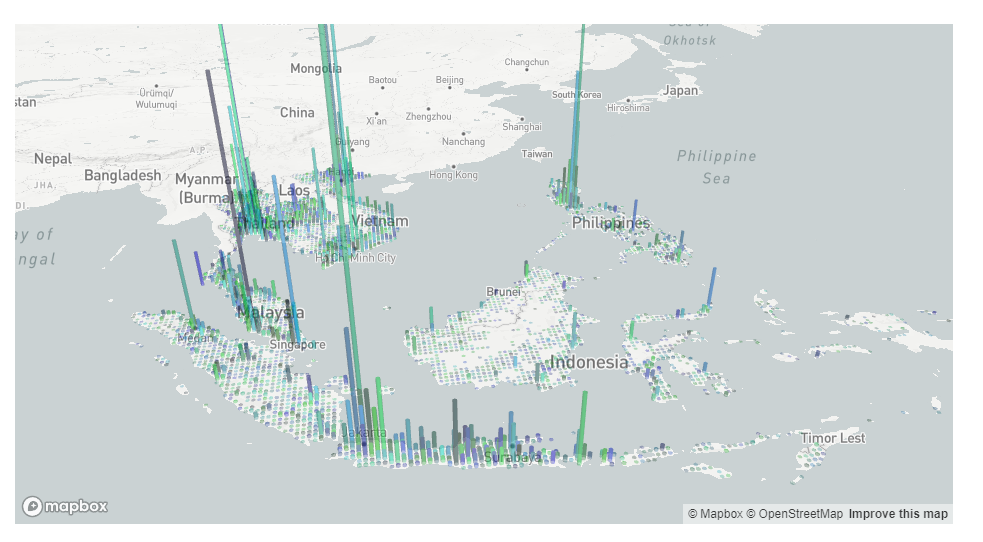
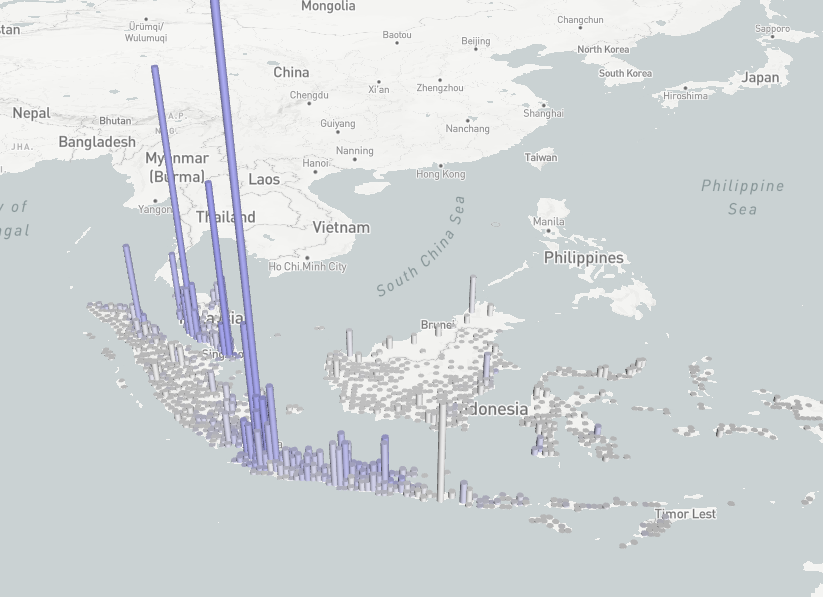
update app

diff --git a/apps/home.py b/apps/home.py
@@ -18,11 +18,11 @@ def app():
     """
     )
 
-    row1_col1, row1_col2 = st.columns(2)
-    with row1_col1:
-        st.image("https://raw.githubusercontent.com/liyangyang515/Spatio-Temporal-Patterns-of-NO2-and-Mobility-Through-the-Variants-of-COVID-19-in-SEA/main/graphs/NO2_ncrisis_map.png")
-        st.image("https://raw.githubusercontent.com/liyangyang515/Spatio-Temporal-Patterns-of-NO2-and-Mobility-Through-the-Variants-of-COVID-19-in-SEA/main/graphs/scatter_NO2_ncrisis.png")
+    # row1_col1, row1_col2 = st.columns(2)
+    # with row1_col1:
+    st.image("https://raw.githubusercontent.com/liyangyang515/Spatio-Temporal-Patterns-of-NO2-and-Mobility-Through-the-Variants-of-COVID-19-in-SEA/main/graphs/NO2_ncrisis_map.png")
+    st.image("https://raw.githubusercontent.com/liyangyang515/Spatio-Temporal-Patterns-of-NO2-and-Mobility-Through-the-Variants-of-COVID-19-in-SEA/main/graphs/scatter_NO2_ncrisis.png")
 
-    with row1_col2:
-        st.image("https://raw.githubusercontent.com/liyangyang515/Spatio-Temporal-Patterns-of-NO2-and-Mobility-Through-the-Variants-of-COVID-19-in-SEA/main/graphs/map3d.png")
-        st.image("https://raw.githubusercontent.com/liyangyang515/Spatio-Temporal-Patterns-of-NO2-and-Mobility-Through-the-Variants-of-COVID-19-in-SEA/main/graphs/scatter_NO2_ncrisis.png")
+    # with row1_col2:
+    st.image("https://raw.githubusercontent.com/liyangyang515/Spatio-Temporal-Patterns-of-NO2-and-Mobility-Through-the-Variants-of-COVID-19-in-SEA/main/graphs/map3d.png")
+    st.image("https://raw.githubusercontent.com/liyangyang515/Spatio-Temporal-Patterns-of-NO2-and-Mobility-Through-the-Variants-of-COVID-19-in-SEA/main/graphs/scatter_NO2_ncrisis.png")

diff --git a/apps/map3D.py b/apps/map3D.py
@@ -1,3 +1,4 @@
+from tkinter import Scale
 import streamlit as st
 import pandas as pd
 import pydeck as pdk
@@ -10,10 +11,10 @@ def app():
     year = st.sidebar.selectbox('select year', [2020, 2021])
     month = st.sidebar.slider("select month", 1, 12)
     elevation = st.sidebar.selectbox('select elevation', clist)
-    color = st.sidebar.selectbox('select color', clist)
     scale = st.sidebar.slider("select scale", 0.5, 50000.5, 10000.0)
     # st.header("Mapping color in " + color + ' and ' + ' size in ' )
     data = df[(df['year'] == year) & (df['month'] == month)]
+
     st.pydeck_chart(pdk.Deck(
         map_style='mapbox://styles/mapbox/light-v9',map_provider="mapbox",
         # map_provider="mapbox",
@@ -30,9 +31,9 @@ def app():
                 data=data,
                 get_position='[lon, lat]',
                 get_elevation= elevation,
-                get_fill_color = color,
-                radius=10000,
-                auto_highlight=True,
+                get_fill_color = '[500/log_NO2, 500/log_NO2, 255]',
+                radius = 17500,
+                auto_highlight = True,
                 elevation_scale= scale,
                 elevation_range=[0, 1000],
                 pickable=True,
